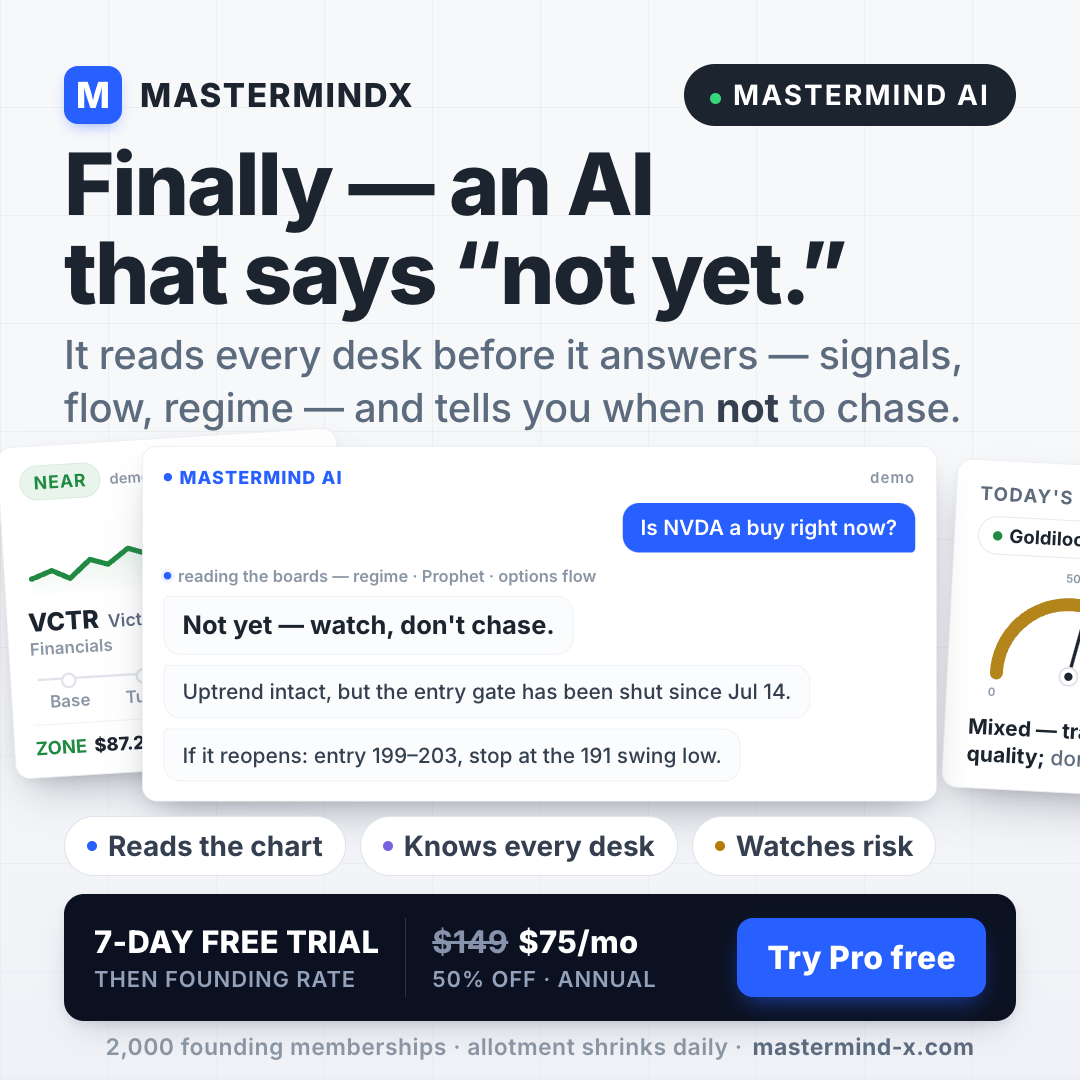
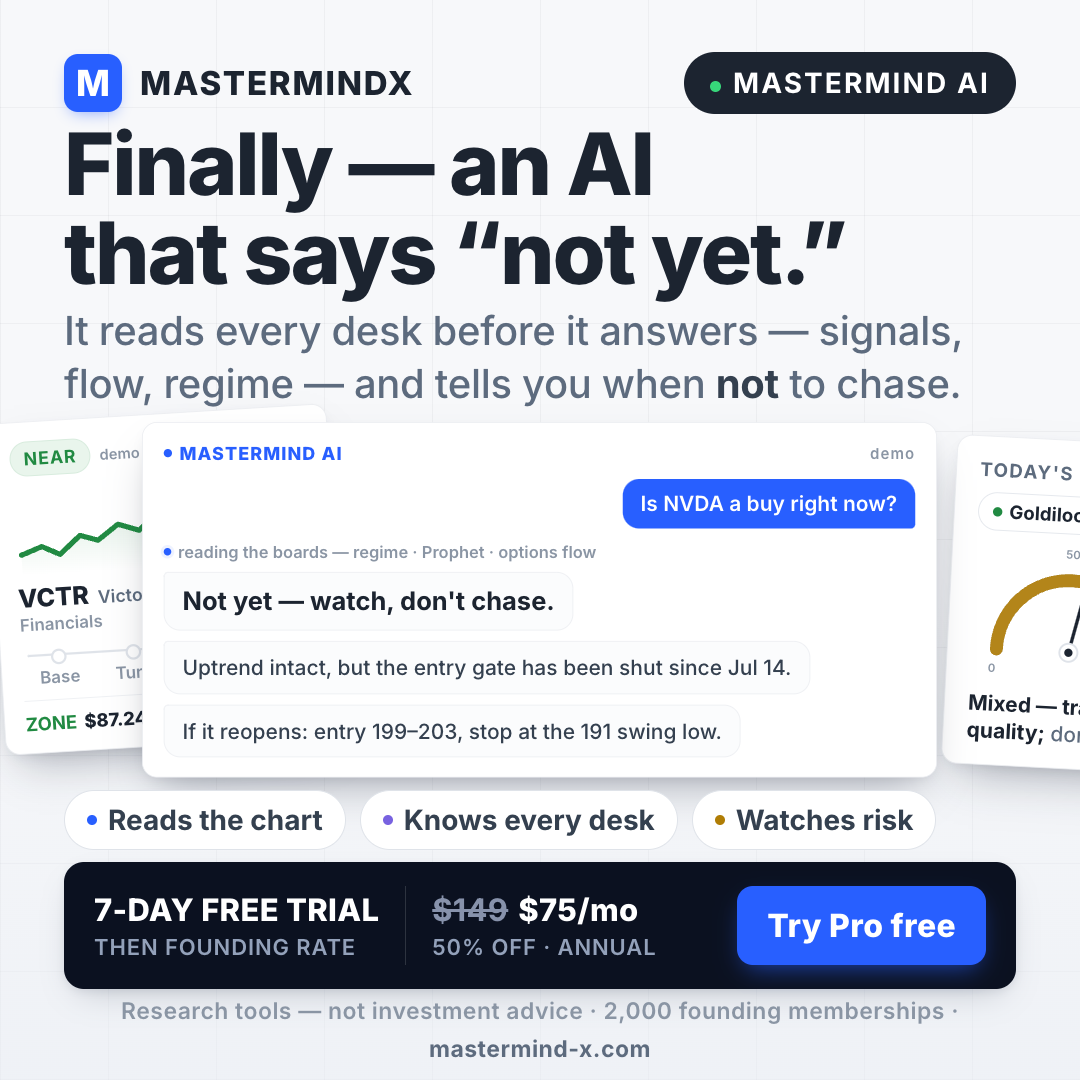
ads(round2): final 12 builder files (knife/price/read, terminal+signals landscape/square, ai-no AG-8 micro) + $408 passport row + gradient-phrase amendment

Changed region(s): [[0.0, 0.4278, 1.0, 0.9778], [0.0306, 0.0306, 0.8861, 0.5194], [0.6111, 0.0306, 0.9472, 0.1222]]

diff --git a/mockups/refs/ad_central/round2/ads/signals--1200x628.html b/mockups/refs/ad_central/round2/ads/signals--1200x628.html
@@ -22,32 +22,9 @@
 
   <div class="stage stage--side">
 
-    <!-- behind: IVZ, highest EDGE in the fan, bleeding off the top-right -->
-    <div class="card w-prophet behind" style="left:246px;top:-30px;transform:rotate(3deg) scale(.68);transform-origin:top left">
-      <div class="top">
-        <span class="pill--near pill">NEAR</span>
-        <span class="demo-tag">demo</span>
-        <span class="chg">+3.3%</span>
-      </div>
-      <svg class="spark" viewBox="0 0 200 60" preserveAspectRatio="none">
-        <defs><linearGradient id="gi" x1="0" y1="0" x2="0" y2="1">
-          <stop offset="0" stop-color="#1f8b41" stop-opacity=".16"/>
-          <stop offset="1" stop-color="#1f8b41" stop-opacity="0"/>
-        </linearGradient></defs>
-        <path d="M4 40 L20 44 L34 34 L50 40 L64 28 L80 35 L94 22 L110 30 L126 16 L142 24 L158 12 L174 19 L196 8 L196 60 L4 60 Z" fill="url(#gi)"/>
-        <path class="spark-g" d="M4 40 L20 44 L34 34 L50 40 L64 28 L80 35 L94 22 L110 30 L126 16 L142 24 L158 12 L174 19 L196 8"/>
-      </svg>
-      <div class="id"><span class="tk">IVZ</span><span class="nm">Invesco</span>
-        <span class="edge">EDGE<b>90</b></span></div>
-      <div class="sector">Financials</div>
-      <div class="stages">
-        <span class="stg">Base</span><span class="stg">Turn</span><span class="stg on">Ready</span><span class="stg">Trend</span>
-      </div>
-      <div class="zone">ZONE <b>$27.66 – $28.61</b><span class="dt">Jul 9</span></div>
-    </div>
-
-    <!-- front: VCTR, the staged setup with the zone drawn -->
-    <div class="card w-prophet front" style="left:30px;top:0;transform:scale(.74);transform-origin:top left">
+    <!-- hero: VCTR, the staged setup with the zone drawn. Sits right of the kicker
+         pill and the chip row, which both paint above the stage (z-index 3). -->
+    <div class="card w-prophet front" style="left:148px;top:20px;transform:scale(.84);transform-origin:top left">
       <div class="top">
         <span class="pill--near pill">NEAR</span>
         <span class="demo-tag">demo</span>

diff --git a/mockups/refs/ad_central/round2/ads/ai-no--1080x1080.html b/mockups/refs/ad_central/round2/ads/ai-no--1080x1080.html
@@ -5,14 +5,14 @@
 
 <div class="ad ad--s1080 ad--paper">
 
-  <div class="brandbar">
+  <div class="brandbar" style="padding-top:52px">
     <div class="brand"><span class="brand-m">M</span><span class="brand-n">MASTERMINDX</span></div>
     <span class="spacer"></span>
     <span class="kicker-pill"><span class="dot"></span>MASTERMIND AI</span>
   </div>
 
-  <h1 class="headline" style="padding-top:14px">Finally — an AI<br>that says &ldquo;not yet.&rdquo;</h1>
-  <p class="sub" style="padding-top:10px">It reads every desk before it answers — signals, flow, regime — and tells you when <b>not</b> to chase.</p>
+  <h1 class="headline" style="padding-top:6px">Finally — an AI<br>that says &ldquo;not yet.&rdquo;</h1>
+  <p class="sub" style="padding-top:6px">It reads every desk before it answers — signals, flow, regime — and tells you when <b>not</b> to chase.</p>
 
   <div class="stage" style="--stageh:358px">
 
@@ -74,19 +74,19 @@
 
   </div>
 
-  <div class="chips" style="padding-top:14px">
+  <div class="chips" style="padding-top:12px">
     <span class="chip"><i></i>Reads the chart</span>
     <span class="chip v"><i></i>Knows every desk</span>
     <span class="chip gold"><i></i>Watches risk</span>
   </div>
 
-  <div class="offer" style="margin-top:18px">
+  <div class="offer" style="margin-top:12px">
     <div class="cell"><span class="t">7-DAY FREE TRIAL</span><span class="d">THEN FOUNDING RATE</span></div>
     <div class="div"></div>
     <div class="cell"><span class="t"><span class="was">$149</span>$75/mo</span><span class="d">50% OFF · ANNUAL</span></div>
     <span class="cta">Try Pro free</span>
   </div>
 
-  <p class="micro" style="padding-top:12px;padding-bottom:16px">Research tools — not investment advice · 2,000 founding memberships · <b>mastermind-x.com</b></p>
+  <p class="micro" style="padding-top:8px;padding-bottom:12px">Research tools — not investment advice · 2,000 founding memberships · <b>mastermind-x.com</b></p>
 
 </div>

diff --git a/mockups/refs/ad_central/round2/ads/ai-no--1080x1350.html b/mockups/refs/ad_central/round2/ads/ai-no--1080x1350.html
@@ -5,14 +5,14 @@
 
 <div class="ad ad--s1350 ad--paper">
 
-  <div class="brandbar">
+  <div class="brandbar" style="padding-top:56px">
     <div class="brand"><span class="brand-m">M</span><span class="brand-n">MASTERMINDX</span></div>
     <span class="spacer"></span>
     <span class="kicker-pill"><span class="dot"></span>MASTERMIND AI</span>
   </div>
 
-  <h1 class="headline" style="padding-top:32px">Finally — an AI<br>that says &ldquo;not yet.&rdquo;</h1>
-  <p class="sub" style="padding-top:24px">It reads every desk before it answers — signals, flow, regime — and tells you when <b>not</b> to chase.</p>
+  <h1 class="headline" style="padding-top:22px">Finally — an AI<br>that says &ldquo;not yet.&rdquo;</h1>
+  <p class="sub" style="padding-top:18px">It reads every desk before it answers — signals, flow, regime — and tells you when <b>not</b> to chase.</p>
 
   <div class="stage" style="--stageh:545px">
 
@@ -81,13 +81,13 @@
     <span class="chip gold"><i></i>Watches risk</span>
   </div>
 
-  <div class="offer" style="margin-top:24px">
+  <div class="offer" style="margin-top:18px">
     <div class="cell"><span class="t">7-DAY FREE TRIAL</span><span class="d">THEN FOUNDING RATE</span></div>
     <div class="div"></div>
     <div class="cell"><span class="t"><span class="was">$149</span>$75/mo</span><span class="d">50% OFF · ANNUAL</span></div>
     <span class="cta">Try Pro free</span>
   </div>
 
-  <p class="micro" style="padding-top:16px;padding-bottom:22px">Research tools — not investment advice · 2,000 founding memberships · <b>mastermind-x.com</b></p>
+  <p class="micro" style="padding-top:12px;padding-bottom:14px">Research tools — not investment advice · 2,000 founding memberships · <b>mastermind-x.com</b></p>
 
 </div>

diff --git a/mockups/refs/ad_central/round2/ads/read--1080x1080.html b/mockups/refs/ad_central/round2/ads/read--1080x1080.html
@@ -51,7 +51,7 @@
     </div>
 
     <!-- front: the read that is waiting when you wake up -->
-    <div class="card w-read front" style="left:290px;top:0;width:560px;transform:scale(.81);transform-origin:top left">
+    <div class="card w-read front" style="left:276px;top:0;width:560px;transform:scale(.81);transform-origin:top left">
       <p class="kick">TODAY'S READ · US <span class="asof">demo</span></p>
       <span class="pill pill--reg"><span class="dotg"></span>Goldilocks · shifting</span>
       <div class="gz-row">
@@ -81,13 +81,13 @@
     <span class="chip"><i></i>Theme rotation</span>
   </div>
 
-  <div class="offer" style="margin-top:10px">
+  <div class="offer" style="margin-top:6px">
     <div class="cell"><span class="t">7-DAY FREE TRIAL</span><span class="d">THEN FOUNDING RATE</span></div>
     <div class="div"></div>
     <div class="cell"><span class="t"><span class="was">$149</span>$75/mo</span><span class="d">50% OFF · ANNUAL</span></div>
     <span class="cta">Try Pro free</span>
   </div>
 
-  <p class="micro" style="padding-top:8px;padding-bottom:14px">2,000 founding memberships · allotment shrinks daily · <b>mastermind-x.com</b></p>
+  <p class="micro" style="padding-top:8px;padding-bottom:10px">2,000 founding memberships · allotment shrinks daily · <b>mastermind-x.com</b></p>
 
 </div>

diff --git a/mockups/refs/ad_central/round2/ads/knife--1080x1080.html b/mockups/refs/ad_central/round2/ads/knife--1080x1080.html
@@ -17,7 +17,7 @@
   <div class="stage" style="--stageh:398px;margin-top:6px">
 
     <!-- behind-left: five weeks earlier — the knife falling, no entry signal -->
-    <div class="card w-prophet behind" style="left:150px;top:32px;width:520px;transform:rotate(-2deg) scale(.72);transform-origin:top left;filter:saturate(.95)">
+    <div class="card w-prophet behind" style="left:90px;top:32px;width:600px;transform:rotate(-2deg) scale(.72);transform-origin:top left;filter:saturate(.95)">
       <div class="top">
         <span class="pill" style="background:var(--red-wash);color:var(--q-red);border:1.5px solid #ecc9c6;font-size:24px;padding:8px 18px;letter-spacing:.05em">FALLING</span>
         <span class="demo-tag">demo</span>
@@ -40,7 +40,7 @@
     </div>
 
     <!-- front-right: the same name once the turn is in -->
-    <div class="card w-prophet front" style="left:520px;top:0;width:520px;transform:scale(.80);transform-origin:top left">
+    <div class="card w-prophet front" style="left:524px;top:0;width:600px;transform:scale(.80);transform-origin:top left">
       <div class="top">
         <span class="pill--near pill">NEAR</span>
         <span class="demo-tag">demo</span>

diff --git a/mockups/refs/ad_central/round2/ads/read--1080x1350.html b/mockups/refs/ad_central/round2/ads/read--1080x1350.html
@@ -17,7 +17,7 @@
   <div class="stage" style="--stageh:462px">
 
     <!-- behind-left: the lanes board, right-hand score column covered by the read card -->
-    <div class="card w-lanes behind" style="left:6px;top:64px;transform:rotate(-3deg) scale(.94);transform-origin:top left">
+    <div class="card w-lanes behind" style="left:6px;top:64px;transform:rotate(-3deg) scale(.80);transform-origin:top left">
       <p class="kick">WHAT TO ACT ON NOW <span class="asof">demo</span></p>
       <div class="lane buy"><h4><i></i>BUY NOW</h4>
         <div class="row">Big Pharma<span class="sc">69</span></div>

diff --git a/research/AD_MASTER_PAPER.md b/research/AD_MASTER_PAPER.md
@@ -140,8 +140,10 @@ Accents: blue `#285fff` (CTA, links; ink `#1c47cc`, wash `#eef2ff`), green `#1f8
 (+wash `#e9f5ec`), red `#c12f2f` (+wash `#faeceb`), gold `#b07d05` (+wash `#faf3e2`),
 violet `#7862e0` (founding/pricing only), teal `#0f9d8f` (sparingly).
 Dark plate mode: `#0b1120` ground, panels `#111a2e`-ish derived, same accent hues.
-Gradient allowance: the hero's blue→violet→teal text gradient on **at most one word**
-per ad; the founding card's violet wash; the faded-candle plate (§4.5). Nothing else.
+Gradient allowance: the hero's blue→violet→teal text gradient on **at most one word or
+one short payoff phrase (≤4 words, one per ad)** — e.g. price's "Yours: $2.50 a day."
+(amended 2026-07-28); the founding card's violet wash; the faded-candle plate (§4.5).
+Nothing else.
 
 ### §4.3 Type (Inter only — operator's ruling)
 
@@ -202,6 +204,7 @@ specific-signal widgets keep the site's small `demo` as-of tag.
 | "Founding 50% off — $75/mo" | pricing: `data-annual="$75"` vs `data-monthly="$149"` |
 | "Billed $900 a year" / "locked in for as long as you stay" | pricing founding terms |
 | "2,000 founding memberships · allotment shrinks daily" | pricing founding block (enforced, #3856) |
+| "SAVE $408 A YEAR" | landing founding badge — regular annual $109/mo ×12 = $1,308 vs $900 |
 | "356 tracked funds" (13F) | landing Smart Money section |
 | "34 themes, four lanes" | landing Theme Rotations section |
 | "Terminal free forever / nothing to install" | landing Terminal section |
